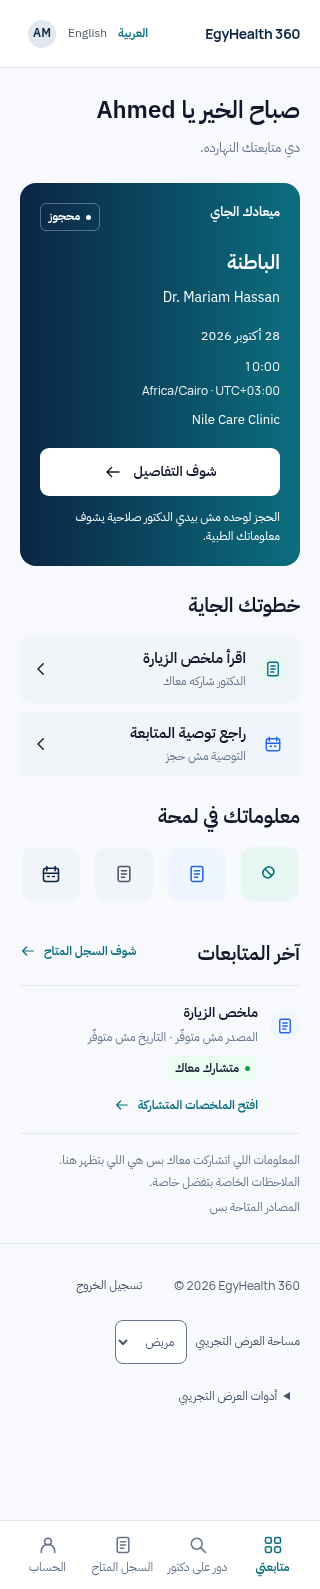
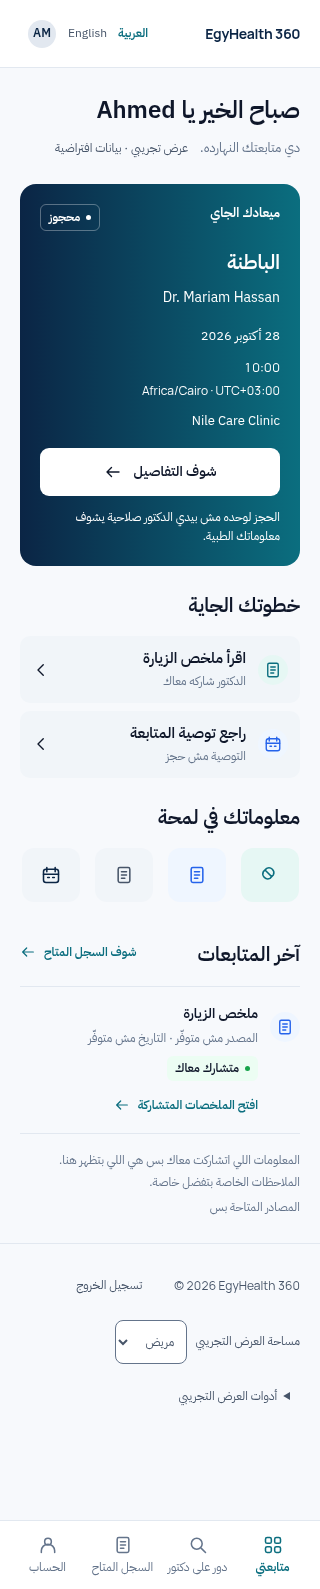
fix(web): preserve accepted mode labels at every viewport

diff --git a/apps/web/src/components/patient-my-care.tsx b/apps/web/src/components/patient-my-care.tsx
@@ -191,9 +191,6 @@ function CareScreen({
         </nav>
         <div className={styles.utilities}>
           <LanguageSwitch />
-          <span className={styles.mode}>
-            {api.mode === "demo" ? c.demo : c.live}
-          </span>
           <Link
             className={styles.avatar}
             href="/patient/settings"
@@ -214,7 +211,12 @@ function CareScreen({
           <h1>
             {c.greeting} <bdi>{firstName}</bdi>
           </h1>
-          <p>{c.support}</p>
+          <p>
+            <span>{c.support}</span>
+            <span className={styles.mode}>
+              {api.mode === "demo" ? c.demo : c.live}
+            </span>
+          </p>
         </div>
         {profile.error && (
           <p className={styles.profileError} role="alert" data-profile-error>

diff --git a/apps/web/src/components/patient-my-care.module.css b/apps/web/src/components/patient-my-care.module.css
@@ -214,7 +214,7 @@
 .mode {
   font-size: 12px;
   color: var(--care-secondary);
-  white-space: nowrap;
+  white-space: normal;
 }
 .avatar {
   display: grid;
@@ -238,6 +238,10 @@
   margin-block-end: 32px;
 }
 .intro p {
+  display: flex;
+  flex-wrap: wrap;
+  align-items: baseline;
+  gap: 4px 12px;
   color: var(--care-muted);
   margin-block-start: 12px;
   font-size: 15px;
@@ -724,9 +728,6 @@
   .header {
     gap: 24px;
     padding-inline: 28px;
-  }
-  .mode {
-    display: none;
   }
   .main {
     padding-inline: 28px;

diff --git a/apps/web/src/lib/patient-my-care-copy.ts b/apps/web/src/lib/patient-my-care-copy.ts
@@ -161,7 +161,7 @@ export const myCareCopy = {
     settings: "الحساب والإعدادات",
     signOut: "تسجيل الخروج",
     demo: "عرض تجريبي · بيانات افتراضية",
-    live: "الوضع المتصل",
+    live: "رعاية متصلة",
     demoControls: "أدوات العرض التجريبي",
     demoWorkspace: "مساحة العرض التجريبي",
     screenState: "حالة الشاشة",

diff --git a/docs/ui-reference/PATIENT_MY_CARE_IMPLEMENTATION.md b/docs/ui-reference/PATIENT_MY_CARE_IMPLEMENTATION.md
@@ -19,6 +19,8 @@ The accepted product/clinical contracts take precedence, followed by written beh
 
 Additional pre-change mobile resolution: preserve the SVG's four compact icon shortcuts rather than carrying desktop tiles onto the phone. Their full accepted names remain in accessible labels and native titles. Live's unavailable prescription shortcut keeps visible unavailable-state wording. Mobile shows the first two prioritized action rows; appointment retrieval remains explicit in the shortcut row and appointment anchor. This follows the reference's mobile hierarchy without adding capabilities.
 
+Validation correction recorded before adjustment: the first CI real-browser pass caught an Arabic mode-label drift from accepted `رعاية متصلة`; the accepted wording is restored. The subsequent disposable-PostgreSQL browser proof found that the utility mode label was hidden below 1200px. A single visible mode label moves to the greeting's supporting line at every width, preserving the 72px reference header and explicit Demo/Live boundary. No test expectation or authority behavior is weakened.
+
 ## Scope and evidence
 
 The implementation enters only for the authenticated Patient role at exact `/patient`. The existing Application, routes, providers, adapters and workflows remain intact outside that insertion. The slice reads existing own-profile, own-booking, public-directory, released-summary and follow-up interfaces. It makes no mutation on entry. Current source invalidation suppresses old shared metadata immediately without restarting unrelated logistics reads; an expired Live session retains the existing refresh-session recovery.
@@ -80,12 +82,13 @@ Changed-file inventory relative to the implementation base: **60 paths** (10 mod
 - Production Next build and web TypeScript typecheck pass. Actual frontend ESLint gate and full repository ESLint pass.
 - UI tests: **161/161 pass**, including new projection tests for appointment status/time ordering, missing Live directory identity, source minimization/current release and Cairo DST conventions.
 - Full existing browser regression passes: Demo Golden Flow, EN/AR navigation and role surfaces, booking, documentation, source privacy, follow-up, Live contracts and storage boundaries. Existing checks were adapted only where the exact My Care root changed; legacy drawer checks still exercise the unchanged Appointments shell.
+- Complete real browser → Next → Nest → disposable PostgreSQL 18 proof also passes locally: actual booking lifecycle, relationship-gated opening, signing/release, correction/addendum, private/wrong-patient/session suppression, follow-up and close/retry. Existing real-browser tests are unchanged. Their generated historical screenshots were restored before the preservation check; only the new My Care evidence is delivered. The two mode-label findings above are corrected and covered by explicit EN/AR narrow-width visibility assertions.
 - New My Care browser checks pass: EN/AR desktop/mobile, 14 width/locale reflow cases down to 320px, both 200% text cases, visible keyboard focus, touch targets, four state families and controlled Live transport. Live uses only seven existing GET paths. Independent profile failure preserves appointment logistics; summary denial removes stale shared metadata; transport/session failures stay Live; session expiry has recovery and no request loop.
 - Actual rendered text sampling covers **26 roles, minimum 4.51:1**; appointment white text is checked against the lighter endpoint of the approved gradient (5.91:1). Visible solid focus, semantic HTML, skip link, logical RTL layout, bidi isolation and reduced-motion rules are present. These are bounded automated/author checks, not a complete WCAG or assistive-technology audit.
 - Repository document sanity/reference classification and `git diff --check` pass. Preservation script checks all pre-existing bytes outside the ten explicitly allowed source/test/document entries, the exact-route Application insertion, original owner handoff, 18 protected V1 files, all previous visual artifacts and font provenance. Exact paths and hashes are in the linked JSON.
 - Local environment: Node 24.19.0, Chromium 154.0.8037.57. The repository requires Node 24.21.0 / pnpm 10.34.6; required remote CI supplies those pinned versions. Remote exact-head results belong in PR #79 and the final handoff, rather than claiming local version parity.
 
-After the repository's ordinary install/build setup, reproduce with `node --test tests/ui*.test.mjs`, `EH_UI_CHROMIUM=/usr/bin/chromium node scripts/test-ui-browser.mjs`, `node scripts/capture-patient-my-care.mjs`, `python3 scripts/check-patient-my-care-scope.py` and `node scripts/ci/check-docs.mjs`. The capture command requires a production web build and uses isolated synthetic browser state/controlled transport. It starts and stops its own local server; it does not deploy or mutate a production API/database.
+After the repository's ordinary install/build setup, reproduce with `node --test tests/ui*.test.mjs`, `EH_UI_CHROMIUM=/usr/bin/chromium node scripts/test-ui-browser.mjs`, `node scripts/capture-patient-my-care.mjs`, `python3 scripts/check-patient-my-care-scope.py` and `node scripts/ci/check-docs.mjs`. The capture command requires a production web build and uses isolated synthetic browser state/controlled transport. It starts and stops its own local server; it does not deploy or mutate a production API/database. For the existing real-browser proof, use `pnpm test:ui:real` with a disposable PostgreSQL `DATABASE_URL`, built API/DB/web, pinned pnpm and Chromium available; restore its generated historical screenshot outputs afterwards.
 
 ### Whole-project health and next gate
 
